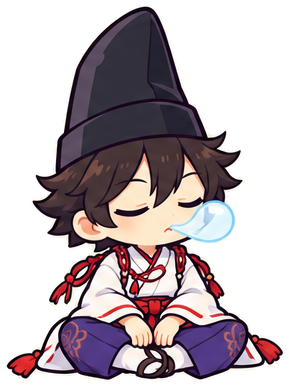
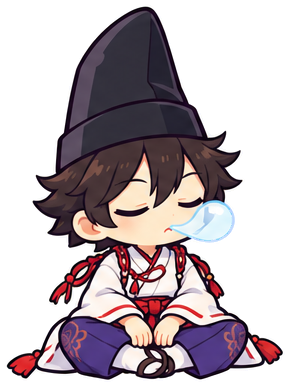
feat(art): retire la frange crème des figures et prépare la régénération HD
- scripts/defringe.py : sur l'anneau extérieur du trait encré, la part
  de crème de chaque pixel devient de la transparence ; appliqué aux 20
  figures (frange de 50 à 70 % du contour ramenée à 0 à 9 %).
- scripts/check_figures.py : vérifie hauteur minimale, frange crème et
  ligne des pieds des poses du héros.
- docs/art/hd-regeneration.md : procédure pas à pas et prompts remplis
  pour les 20 figures ; la génération dans ChatGPT est suivie dans #58
  (besoin-yann).

Closes #39

Changed region(s): [[0.7474, 0.5285, 0.8097, 0.6218], [0.6851, 0.6218, 0.7474, 0.6528], [0.654, 0.5907, 0.6851, 0.6218]]

diff --git a/scripts/check_figures.py b/scripts/check_figures.py
@@ -1,0 +1,81 @@
+#!/usr/bin/env python3
+"""Checks cut-out figures before they replace those of assets/images (docs/ART_PIPELINE.md § 5).
+
+For each PNG: height of at least --min-height pixels, transparent background, no cream fringe
+(#FFF4DC-like pixels on the visible edge). For the hero poses, also reports where the feet land
+(lowest opaque row, relative to the image height) so that poses do not jump.
+
+    python3 scripts/check_figures.py assets/images/hero assets/images/bosses --min-height 900
+
+Exits with 1 when a figure fails.
+"""
+
+import argparse
+import sys
+from pathlib import Path
+
+import numpy as np
+from PIL import Image
+
+CREAM = np.array([255, 244, 220])
+CREAM_TOLERANCE = 28
+FRINGE_LIMIT = 0.02  # Share of edge pixels allowed to look cream.
+FEET_TOLERANCE = 0.03  # Feet line may differ by 3 % of the height between poses.
+
+
+def edge_mask(alpha: np.ndarray) -> np.ndarray:
+    """Clearly visible pixels (alpha > 50 %) touching a mostly transparent one: the outline."""
+    visible = alpha > 128
+    padded = np.pad(visible, 1, constant_values=False)
+    neighbours_hidden = (
+        ~padded[:-2, 1:-1] | ~padded[2:, 1:-1] | ~padded[1:-1, :-2] | ~padded[1:-1, 2:]
+    )
+    return visible & neighbours_hidden
+
+
+def check(path: Path, min_height: int) -> tuple[list[str], float | None]:
+    image = Image.open(path).convert('RGBA')
+    pixels = np.asarray(image).astype(int)
+    rgb, alpha = pixels[..., :3], pixels[..., 3]
+    problems = []
+    if image.height < min_height:
+        problems.append(f'height {image.height} px < {min_height} px')
+    if alpha.min() == 255:
+        problems.append('no transparency (background not removed)')
+        return problems, None
+    edges = edge_mask(alpha)
+    cream = np.all(np.abs(rgb - CREAM) <= CREAM_TOLERANCE, axis=-1) & edges
+    share = cream.sum() / max(1, edges.sum())
+    if share > FRINGE_LIMIT:
+        problems.append(f'cream fringe on {share:.1%} of the edge')
+    rows = np.where((alpha > 128).any(axis=1))[0]
+    feet = rows.max() / image.height if rows.size else None
+    return problems, feet
+
+
+def main() -> int:
+    parser = argparse.ArgumentParser(description=__doc__.splitlines()[0])
+    parser.add_argument('folders', nargs='+', type=Path)
+    parser.add_argument('--min-height', type=int, default=900)
+    args = parser.parse_args()
+
+    failed = False
+    for folder in args.folders:
+        feet_lines = {}
+        for path in sorted(folder.glob('*.png')):
+            problems, feet = check(path, args.min_height)
+            status = 'OK ' if not problems else 'KO '
+            print(f'{status} {path}' + ('' if not problems else ' — ' + '; '.join(problems)))
+            failed |= bool(problems)
+            if feet is not None and path.name.startswith('hero-'):
+                feet_lines[path.name] = feet
+        if feet_lines:
+            low, high = min(feet_lines.values()), max(feet_lines.values())
+            aligned = high - low <= FEET_TOLERANCE
+            print(f"{'OK ' if aligned else 'KO '} feet line of the hero poses: {low:.3f} to {high:.3f}")
+            failed |= not aligned
+    return 1 if failed else 0
+
+
+if __name__ == '__main__':
+    sys.exit(main())

diff --git a/scripts/defringe.py b/scripts/defringe.py
@@ -1,0 +1,63 @@
+#!/usr/bin/env python3
+"""Removes the cream fringe left around cut-out figures (docs/ART_PIPELINE.md § 3).
+
+The figures of the sheets are outlined in ink on a cream background: anti-aliasing leaves a ring
+of cream-tinted pixels outside the outline, visible on colored backgrounds. On that outer ring,
+each pixel is treated as a blend of ink and cream: the cream share becomes transparency.
+
+    python3 scripts/defringe.py assets/images/hero/*.png assets/images/bosses/*.png
+
+Files are rewritten in place (the originals stay in Git history).
+"""
+
+import argparse
+from pathlib import Path
+
+import numpy as np
+from PIL import Image
+
+CREAM = np.array([255.0, 244.0, 220.0])
+INK = np.array([43.0, 29.0, 63.0])
+RING = 4  # Width, in pixels, of the outer ring that may hold cream.
+
+
+def outer_ring(alpha: np.ndarray, width: int) -> np.ndarray:
+    """Visible pixels within `width` pixels of a transparent one."""
+    hidden = alpha == 0
+    reach = hidden.copy()
+    for _ in range(width):
+        grown = reach.copy()
+        grown[1:, :] |= reach[:-1, :]
+        grown[:-1, :] |= reach[1:, :]
+        grown[:, 1:] |= reach[:, :-1]
+        grown[:, :-1] |= reach[:, 1:]
+        reach = grown
+    return reach & ~hidden
+
+
+def defringe(image: Image.Image) -> Image.Image:
+    pixels = np.asarray(image.convert('RGBA')).astype(float)
+    rgb, alpha = pixels[..., :3], pixels[..., 3]
+    ring = outer_ring(alpha, RING)
+    axis = CREAM - INK
+    # Share of cream in each ring pixel, along the ink → cream axis.
+    cream_share = np.clip(((rgb - INK) @ axis) / (axis @ axis), 0.0, 1.0)
+    keep = 1.0 - cream_share
+    new_alpha = np.where(ring, alpha * keep, alpha)
+    safe_keep = np.maximum(keep, 1e-3)[..., None]
+    new_rgb = np.where(ring[..., None], np.clip((rgb - cream_share[..., None] * CREAM) / safe_keep, 0, 255), rgb)
+    new_alpha = np.where(ring & (keep < 0.05), 0.0, new_alpha)
+    result = np.dstack([new_rgb, new_alpha]).round().astype(np.uint8)
+    return Image.fromarray(result, 'RGBA')
+
+
+def main() -> None:
+    parser = argparse.ArgumentParser(description=__doc__.splitlines()[0])
+    parser.add_argument('files', nargs='+', type=Path)
+    for path in parser.parse_args().files:
+        defringe(Image.open(path)).save(path, optimize=True)
+        print(f'defringed {path}')
+
+
+if __name__ == '__main__':
+    main()

diff --git a/docs/art/hd-regeneration.md b/docs/art/hd-regeneration.md
@@ -1,0 +1,55 @@
+# Régénération des illustrations en haute définition
+
+Procédure pas à pas pour l'issue de suivi de #39 : chaque figure du héros et des Gardiens est redessinée seule, en grand, dans la conversation ChatGPT de référence, puis découpée, défrangée et vérifiée. Règles de style : [`ART_PIPELINE.md`](../ART_PIPELINE.md) § 1.
+
+## Avant de commencer
+
+1. Ouvrir la conversation ChatGPT de référence (celle des planches) et y joindre la planche concernée : `design/sources/planche-heros.png` pour le héros, `design/sources/planche-boss.png` pour les Gardiens (et `design/sources/nurarihyon-v3.png` pour Nurarihyon).
+2. Installer les outils une fois : `python3 -m pip install pillow numpy scipy`.
+
+## Pour chaque figure
+
+1. Copier le prompt de la figure (ci-dessous) dans la conversation, la planche jointe.
+2. Télécharger l'image obtenue dans `design/sources/hd/<nom>.png` (créer le dossier ; ces sources restent dans le repo).
+3. Découper : `python3 scripts/cut_sheet.py design/sources/hd/<nom>.png /tmp/hd --names <nom> --dilate 1`.
+4. Défranger : `python3 scripts/defringe.py /tmp/hd/<nom>.png`.
+5. Vérifier : `python3 scripts/check_figures.py /tmp/hd --min-height 900` doit afficher `OK`.
+6. Remplacer le fichier de `assets/images/hero/` ou `assets/images/bosses/` (même nom).
+
+Quand les 20 figures sont remplacées : `python3 scripts/check_figures.py assets/images/hero assets/images/bosses --min-height 900` (la ligne des pieds des poses du héros doit être `OK`), puis lancer l'app (`npm run ios`) et regarder le combat, le cut-in d'un Gardien et la galerie.
+
+## Prompt commun
+
+```text
+Using the attached model sheet as the exact style reference, redraw ONLY figure [NUMBER] ([NAME]) as a single large standalone illustration.
+Keep exactly the same design, proportions, colors, outline thickness and flat cel shading as on the sheet.
+Square format, figure centered with empty space around it, transparent background (or plain flat #FFF4DC if transparency is not possible).
+No text, no shadow on the ground, no scenery.
+```
+
+Pour le héros, ajouter : `Same scale as the other poses: the character's feet rest on the same line, 4% above the bottom edge.`
+
+## Figures
+
+| Figure | `[NUMBER]` / `[NAME]` | Fichier |
+|---|---|---|
+| Héros, pose 01 (attente) | `01` / `onmyoji, attente` | `assets/images/hero/hero-01-idle.png` |
+| Héros, pose 02 (attaque) | `02` / `onmyoji, attaque` | `assets/images/hero/hero-02-attaque.png` |
+| Héros, pose 03 (sort de feu) | `03` / `onmyoji, sort de feu` | `assets/images/hero/hero-03-feu.png` |
+| Héros, pose 04 (sort de foudre) | `04` / `onmyoji, sort de foudre` | `assets/images/hero/hero-04-foudre.png` |
+| Héros, pose 05 (barrière) | `05` / `onmyoji, barrière` | `assets/images/hero/hero-05-barriere.png` |
+| Héros, pose 06 (touché) | `06` / `onmyoji, touché` | `assets/images/hero/hero-06-touche.png` |
+| Héros, pose 07 (K.-O.) | `07` / `onmyoji, K.-O.` | `assets/images/hero/hero-07-ko.png` |
+| Héros, pose 08 (victoire) | `08` / `onmyoji, victoire` | `assets/images/hero/hero-08-victoire.png` |
+| Héros, pose 09 (sommeil) | `09` / `onmyoji, sommeil` | `assets/images/hero/hero-09-sommeil.png` |
+| Héros, pose 10 (surpris) | `10` / `onmyoji, surpris` | `assets/images/hero/hero-10-surpris.png` |
+| Gardien 01 | `01` / `Bake-danuki` | `assets/images/bosses/boss-01-bake-danuki.png` |
+| Gardien 02 | `02` / `Kappa` | `assets/images/bosses/boss-02-kappa.png` |
+| Gardien 03 | `03` / `Karasu-tengu` | `assets/images/bosses/boss-03-karasu-tengu.png` |
+| Gardien 04 | `04` / `Tsuchigumo` | `assets/images/bosses/boss-04-tsuchigumo.png` |
+| Gardien 05 | `05` / `Yuki-onna` | `assets/images/bosses/boss-05-yuki-onna.png` |
+| Gardien 06 | `06` / `Gashadokuro` | `assets/images/bosses/boss-06-gashadokuro.png` |
+| Gardien 07 | `07` / `Nue` | `assets/images/bosses/boss-07-nue.png` |
+| Gardien 08 | `08` / `Ibaraki-dōji` | `assets/images/bosses/boss-08-ibaraki-doji.png` |
+| Gardien 09 | `09` / `Kyūbi no kitsune` | `assets/images/bosses/boss-09-kyubi.png` |
+| Gardien 10 | `10` / `Nurarihyon (version 3, chapeau de cour)` | `assets/images/bosses/boss-10-nurarihyon.png` |

diff --git a/docs/ART_PIPELINE.md b/docs/ART_PIPELINE.md
@@ -44,6 +44,13 @@ python3 scripts/cut_sheet.py design/sources/planche-heros.png assets/images/hero
 
 Le script détecte les figures, rattache les petits éléments (flammes, gouttes, bulles, flocons) à la figure la plus proche, rend le fond transparent et adoucit les bords. Détails dans [`scripts/README.md`](../scripts/README.md).
 
+Le découpage laisse un liseré crème anticrénelé autour du trait encré, visible sur fond coloré : le retirer avec `scripts/defringe.py`, puis vérifier avec `scripts/check_figures.py` (hauteur, frange, ligne des pieds des poses du héros).
+
+```bash
+python3 scripts/defringe.py assets/images/hero/*.png assets/images/bosses/*.png
+python3 scripts/check_figures.py assets/images/hero assets/images/bosses --min-height 900
+```
+
 Toujours vérifier le résultat sur un fond coloré avant de committer.
 
 ## 4. Nommage
@@ -54,7 +61,7 @@ Toujours vérifier le résultat sur un fond coloré avant de committer.
 
 ## 5. Haute définition
 
-Les figures découpées depuis les planches font ~300 × 450 px : suffisant pour les maquettes, un peu juste sur tablette. Avant publication, régénérer chaque figure seule en grand (prompt ci-dessous, planche jointe), puis découper et remplacer.
+Les figures découpées depuis les planches font ~300 × 450 px : suffisant pour les maquettes, un peu juste sur tablette. Avant publication, régénérer chaque figure seule en grand (prompt ci-dessous, planche jointe), puis découper, défranger, vérifier et remplacer. Procédure pas à pas et liste des 20 figures : [`art/hd-regeneration.md`](art/hd-regeneration.md).
 
 ```text
 Using the attached model sheet as the exact style reference, redraw ONLY figure [NUMBER] ([NAME]) as a single large standalone illustration.

diff --git a/docs/PROGRESS.md b/docs/PROGRESS.md
@@ -7,8 +7,8 @@ Journal de reprise du travail autonome (voir [`AGENTS.md`](../AGENTS.md) § 3). 
 | | |
 |---|---|
 | Milestone en cours | 4 · Feel & finitions (`milestone/4-finitions`) |
-| Dernière issue terminée | #37 Retour hors ligne |
-| Prochaine issue | #39 Illustrations HD (préparation + besoin-yann), puis #40, #41, #42, #43, #44, #28 |
+| Dernière issue terminée | #39 Illustrations HD (partie automatisable) |
+| Prochaine issue | #40 Icône et écran de lancement |
 
 ## Milestones
 
@@ -18,7 +18,7 @@ Journal de reprise du travail autonome (voir [`AGENTS.md`](../AGENTS.md) § 3). 
 | 1 · Moteur de jeu | Terminée (#53 attend Yann) | #54 |
 | 2 · Fabrique à yōkai | Terminée (#55 attend une mesure sur appareil) | #56 |
 | 3 · Boucle jouable | Terminée | #57 |
-| 4 · Feel & finitions | À faire | — |
+| 4 · Feel & finitions | En cours | — |
 | 5 · Publication | À faire | — |
 
 ## Points en suspens
@@ -38,3 +38,4 @@ Journal de reprise du travail autonome (voir [`AGENTS.md`](../AGENTS.md) § 3). 
 
 - #53 Valider l'équilibrage (cibles et ressenti en jeu, après la milestone 3).
 - #55 Vérifier les performances sur un Android d'entrée de gamme (Fabrique, puis Combat et Shikigami).
+- #58 Régénérer les 20 illustrations en HD dans ChatGPT (procédure et outils prêts).

diff --git a/scripts/README.md b/scripts/README.md
@@ -3,6 +3,8 @@
 | Script | Rôle |
 |---|---|
 | [`cut_sheet.py`](cut_sheet.py) | Découpe une planche ChatGPT (fond uni) en figures PNG transparentes |
+| [`defringe.py`](defringe.py) | Retire le liseré crème laissé autour des figures découpées (réécrit les PNG) |
+| [`check_figures.py`](check_figures.py) | Vérifie les figures : hauteur minimale, absence de frange crème, ligne des pieds des poses du héros |
 | [`bench-bignum.ts`](bench-bignum.ts) | Spike de performance de `BigNum` (1 million de multiplications) |
 | [`simulate.ts`](simulate.ts) | Harnais d'équilibrage : 3 profils de joueurs sur N jours, courbes dans `docs/balancing/` (logique dans `balancing/`) |
 
@@ -10,7 +12,7 @@ Les scripts TypeScript se lancent avec `npx tsx scripts/<script>.ts` : ils impor
 
 ## `cut_sheet.py`
 
-Dépendances : Python 3, Pillow, numpy, scipy (`pip install pillow numpy scipy`).
+Dépendances : Python 3, Pillow, numpy, scipy (`pip install pillow numpy scipy`). `defringe.py` et `check_figures.py` n'utilisent que Pillow et numpy.
 
 ```bash
 # Poses du héros
